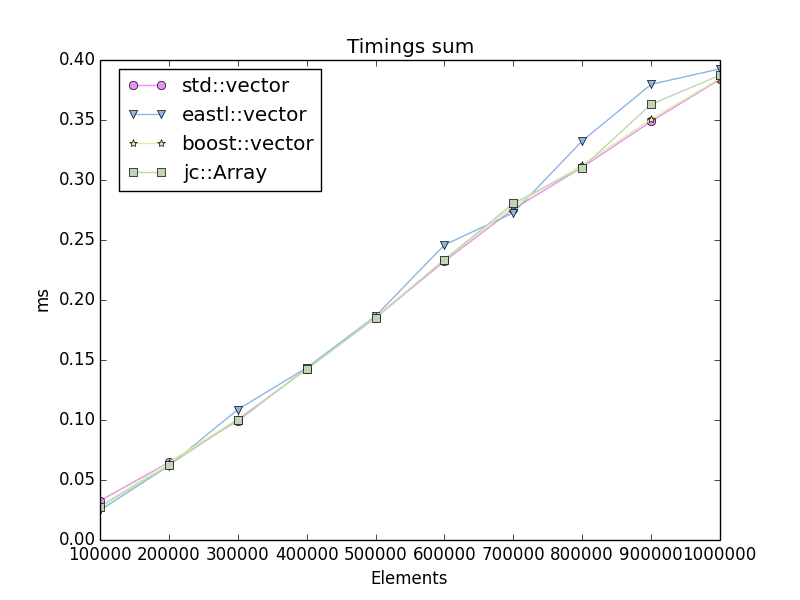
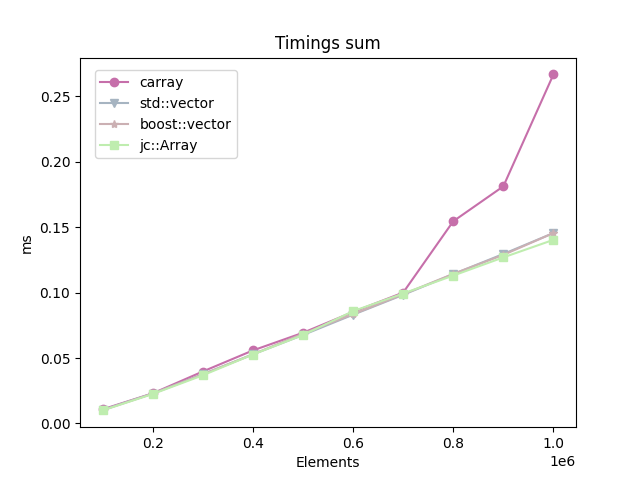
Updated benchmark scripts to python3

diff --git a/benchmarks/makereport.py b/benchmarks/makereport.py
@@ -26,7 +26,7 @@ def convert_time(t, unit):
 
 def parse_log(report, reportpath):
     counts = []
-    with open(reportpath, 'rb') as f:
+    with open(reportpath, 'rt') as f:
         n = -1
         iterations = -1
         for line in f:
@@ -70,8 +70,8 @@ def parse_log(report, reportpath):
 
 def collect_table_data(counts, report, tabledata):
 
-    for category, tests in report.iteritems():
-        for testname, results in tests.iteritems():
+    for category, tests in report.items():
+        for testname, results in tests.items():
             if testname in ['title', 'scale', 'unit']:
                 continue
             
@@ -84,7 +84,7 @@ def collect_table_data(counts, report, tabledata):
                 tabledata[category][testname]['counts'] = list()
             tabledata[category][testname]['counts'].extend(counts)
             
-            for name, values in results.iteritems():
+            for name, values in results.items():
                 if not name in tabledata[category][testname]:
                     tabledata[category][testname][name] = list()
                 if name in ['title', 'scale', 'unit']:
@@ -96,16 +96,16 @@ def collect_table_data(counts, report, tabledata):
 def make_table_report(data):
     usediff = False
 
-    for category, tests in data.iteritems():
+    for category, tests in data.items():
     
         totaldiff = 0.0
     
-        for testname, results in tests.iteritems():
+        for testname, results in tests.items():
             if testname in ['title', 'scale', 'formatter', 'unit']:
                 continue
             
             columns = list()
-            for name, values in results.iteritems():
+            for name, values in results.items():
                 if len(values) < len(results['counts']):
                     values.extend( (len(results['counts']) - len(values)) * [0.0])
                 columns.append( [name]+values )
@@ -114,11 +114,11 @@ def make_table_report(data):
             scale = tests['scale']
             title = tests['title']
             
-            matrix = zip(*columns)
+            matrix = list(zip(*columns))
             
             rows = [list(matrix[0])]
             for row in matrix[1:]:
-                rows.append( [str(row[0])] + map(formatter, map(lambda x: scale * x, row[1:]) ) )
+                rows.append( [str(row[0])] + list(map(formatter, map(lambda x: scale * x, row[1:]) )) )
             
             lengths = [0] * len(rows[0])
             for row in rows:
@@ -136,10 +136,10 @@ def make_table_report(data):
                 else:
                     headersunderline.append( '-' * (length + 2) )
                     
-            print "## " + title + " " + testname
-            print ""
-            print '|' + '|'.join(headers) + '|'
-            print '|' + '|'.join(headersunderline) + '|'
+            print("## " + title + " " + testname)
+            print("")
+            print('|' + '|'.join(headers) + '|')
+            print('|' + '|'.join(headersunderline) + '|')
 
             for row in rows[1:]:
                 values = []
@@ -148,23 +148,23 @@ def make_table_report(data):
                     value = v.ljust(length)
                     values.append( ' ' + value + ' ')
                 
-                print '|' + '|'.join(values) + '|',
+                print('|' + '|'.join(values) + '|',)
                 if not usediff:
-                    print ""
+                    print("")
                 
                 diff = 0.0
                 if usediff:
                     tokens = values[-1].split()
                     diff = float(tokens[0]) - float(values[-2].split()[0])
-                    print diff, tokens[1]
+                    print(diff, tokens[1])
                     
             totaldiff += diff
             
-            print ""
-            print ""
+            print("")
+            print("")
         
         if usediff:
-            print "Total diff:", totaldiff
+            print("Total diff:", totaldiff)
 
 
 if __name__ == '__main__':
@@ -213,4 +213,4 @@ if __name__ == '__main__':
     make_table_report(tabledata)
 
     timeend = time.time()
-    print "# Report made in %f seconds" % (timeend - timestart)
+    print("# Report made in %f seconds" % (timeend - timestart))

diff --git a/benchmarks/markdown.py b/benchmarks/markdown.py
@@ -19,7 +19,7 @@ def get_path_from_test_name(category, name):
 
 def get_log(path):
     lines = []
-    with open(path, 'rb') as f:
+    with open(path, 'rt') as f:
         for line in f.readlines():
             if line.startswith('# '):
                 continue
@@ -46,14 +46,14 @@ if __name__ == '__main__':
     category= sys.argv[2]
     log     = sys.argv[3]
 
-    print "# %s benchmarks" % title
-    print ""
-    print "Benchmarks run on a:", get_machine(), " ", get_cpu() 
-    print ""
+    print("# %s benchmarks" % title)
+    print("")
+    print("Benchmarks run on a:", get_machine(), " ", get_cpu() )
+    print("")
 
     lines = get_log(log)
 
-    print "# Images"
+    print("# Images")
 
     tests = get_tests(lines)
     i = 0
@@ -61,20 +61,20 @@ if __name__ == '__main__':
         if ('dmHashTable' in test):
             continue
         if (i % 2) == 0:
-            print '_\n<br/>'
+            print('_\n<br/>')
         i = i + 1
-        print '<img src="%s" alt="%s" width="350">' % (get_path_from_test_name(category, test), test)
+        print('<img src="%s" alt="%s" width="350">' % (get_path_from_test_name(category, test), test))
 
 
-    print ""
-    print "# Tables"
-    print ""
+    print("")
+    print("# Tables")
+    print("")
 
-    print "### %s" % log
-    print ""
+    print("### %s" % log)
+    print("")
     for line in lines:
         if 'dmHashTable' in line:
             continue
         tokens = line.split()
         tokens = map(sub, tokens)
-        print " ".join(tokens)
+        print(" ".join(tokens))

diff --git a/benchmarks/render.py b/benchmarks/render.py
@@ -19,7 +19,7 @@ def convert_time(t, unit):
     
 def parse_log(path):
     tests = []
-    with open(path, 'rb') as f:
+    with open(path, 'rt') as f:
         lines = f.readlines()
         
         headers = None
@@ -95,7 +95,7 @@ def render_matplotlib(test, outputdir):
     bars = []
     offset = 0
     markers='ov*sxd'
-    for i, (name, values) in enumerate(test['headers'].iteritems()):
+    for i, (name, values) in enumerate(test['headers'].items()):
         values = [x * scale for x in values]
         plt.plot(test['counts'], values, label=name, color=random_color(), marker=markers[i % len(markers)])
         offset += bar_width
@@ -111,7 +111,7 @@ def render_matplotlib(test, outputdir):
     plt.savefig(outpath)
     plt.close()
 
-    print "Wrote", outpath
+    print("Wrote", outpath)
             
 if __name__ == '__main__':
     tests = parse_log(sys.argv[1])

diff --git a/benchmarks/array/defines.h b/benchmarks/array/defines.h
@@ -63,7 +63,7 @@ typedef struct SValue
     typedef valuelarge_t* container_valuelarge_t;
 
 #elif defined(IMPL_JC)
-    #include <jc/array.h>
+    #include <jc/cpp/array.h>
     #define CONTAINERNAME "jc::Array"
     #define SET_CAPACITY(_CONTAINER, _SIZE) (_CONTAINER).SetCapacity(_SIZE)
     #define SET_SIZE(_CONTAINER, _SIZE)     (_CONTAINER).SetSize(_SIZE)

diff --git a/benchmarks/benchmarks_array.md b/benchmarks/benchmarks_array.md
@@ -1,6 +1,6 @@
 # jc::Array benchmarks
 
-Benchmarks run on a: MacBookPro14,2   Intel(R) Core(TM) i7-7567U CPU @ 3.50GHz
+Benchmarks run on a: b'MacBookPro18,3'   b'Apple M1 Pro'
 
 # Images
 _
@@ -18,65 +18,105 @@ _
 
 ## <sub>Timings</sub> <sub>get_random_small</sub>
 
-| <sub>counts</sub> | <sub>std::vector</sub> | <sub>eastl::vector</sub> | <sub>boost::vector</sub> | <sub>jc::Array</sub> | <sub>carray</sub> |
-|--------:|-------------|---------------|---------------|------------|------------|
-| <sub>100000</sub> | <sub>0.8264</sub> <sub>ms</sub> | <sub>0.8080</sub> <sub>ms</sub> | <sub>0.8081</sub> <sub>ms</sub> | <sub>0.8070</sub> <sub>ms</sub> | <sub>0.9156</sub> <sub>ms</sub> |
-| <sub>200000</sub> | <sub>1.7394</sub> <sub>ms</sub> | <sub>1.7150</sub> <sub>ms</sub> | <sub>1.6988</sub> <sub>ms</sub> | <sub>1.7306</sub> <sub>ms</sub> | <sub>1.8948</sub> <sub>ms</sub> |
-| <sub>300000</sub> | <sub>3.1953</sub> <sub>ms</sub> | <sub>2.8719</sub> <sub>ms</sub> | <sub>2.7273</sub> <sub>ms</sub> | <sub>2.7776</sub> <sub>ms</sub> | <sub>2.9445</sub> <sub>ms</sub> |
-| <sub>400000</sub> | <sub>4.0184</sub> <sub>ms</sub> | <sub>4.1398</sub> <sub>ms</sub> | <sub>3.8273</sub> <sub>ms</sub> | <sub>4.0719</sub> <sub>ms</sub> | <sub>4.2344</sub> <sub>ms</sub> |
-| <sub>500000</sub> | <sub>5.6850</sub> <sub>ms</sub> | <sub>5.8138</sub> <sub>ms</sub> | <sub>5.6511</sub> <sub>ms</sub> | <sub>5.9827</sub> <sub>ms</sub> | <sub>6.4052</sub> <sub>ms</sub> |
-| <sub>600000</sub> | <sub>8.7354</sub> <sub>ms</sub> | <sub>9.0637</sub> <sub>ms</sub> | <sub>8.4654</sub> <sub>ms</sub> | <sub>9.2994</sub> <sub>ms</sub> | <sub>9.2293</sub> <sub>ms</sub> |
-| <sub>700000</sub> | <sub>10.9367</sub> <sub>ms</sub> | <sub>12.5569</sub> <sub>ms</sub> | <sub>11.9072</sub> <sub>ms</sub> | <sub>12.1086</sub> <sub>ms</sub> | <sub>11.7493</sub> <sub>ms</sub> |
-| <sub>800000</sub> | <sub>13.8100</sub> <sub>ms</sub> | <sub>14.9648</sub> <sub>ms</sub> | <sub>14.9357</sub> <sub>ms</sub> | <sub>14.7252</sub> <sub>ms</sub> | <sub>14.2899</sub> <sub>ms</sub> |
-| <sub>900000</sub> | <sub>17.8260</sub> <sub>ms</sub> | <sub>17.9126</sub> <sub>ms</sub> | <sub>17.8071</sub> <sub>ms</sub> | <sub>17.6653</sub> <sub>ms</sub> | <sub>16.5598</sub> <sub>ms</sub> |
-| <sub>1000000</sub> | <sub>18.7424</sub> <sub>ms</sub> | <sub>20.6326</sub> <sub>ms</sub> | <sub>20.6248</sub> <sub>ms</sub> | <sub>20.3646</sub> <sub>ms</sub> | <sub>18.6638</sub> <sub>ms</sub> |
+| <sub>counts</sub> | <sub>carray</sub> | <sub>std::vector</sub> | <sub>boost::vector</sub> | <sub>jc::Array</sub> |
+|--------:|-----------|-------------|---------------|-----------|
+| <sub>100000</sub> | <sub>0.7136</sub> <sub>ms</sub> | <sub>0.7120</sub> <sub>ms</sub> | <sub>0.7120</sub> <sub>ms</sub> | <sub>0.7121</sub> <sub>ms</sub> |
+
+| <sub>200000</sub> | <sub>1.4414</sub> <sub>ms</sub> | <sub>1.4360</sub> <sub>ms</sub> | <sub>1.4263</sub> <sub>ms</sub> | <sub>1.4266</sub> <sub>ms</sub> |
+
+| <sub>300000</sub> | <sub>2.2113</sub> <sub>ms</sub> | <sub>2.2018</sub> <sub>ms</sub> | <sub>2.1843</sub> <sub>ms</sub> | <sub>2.2096</sub> <sub>ms</sub> |
+
+| <sub>400000</sub> | <sub>3.0264</sub> <sub>ms</sub> | <sub>2.9470</sub> <sub>ms</sub> | <sub>2.9482</sub> <sub>ms</sub> | <sub>2.9983</sub> <sub>ms</sub> |
+
+| <sub>500000</sub> | <sub>3.8195</sub> <sub>ms</sub> | <sub>3.7090</sub> <sub>ms</sub> | <sub>3.7188</sub> <sub>ms</sub> | <sub>3.7883</sub> <sub>ms</sub> |
+
+| <sub>600000</sub> | <sub>4.6223</sub> <sub>ms</sub> | <sub>4.4828</sub> <sub>ms</sub> | <sub>4.4828</sub> <sub>ms</sub> | <sub>4.5829</sub> <sub>ms</sub> |
+
+| <sub>700000</sub> | <sub>5.4262</sub> <sub>ms</sub> | <sub>5.2497</sub> <sub>ms</sub> | <sub>5.2559</sub> <sub>ms</sub> | <sub>5.3947</sub> <sub>ms</sub> |
+
+| <sub>800000</sub> | <sub>6.2504</sub> <sub>ms</sub> | <sub>6.0370</sub> <sub>ms</sub> | <sub>6.0279</sub> <sub>ms</sub> | <sub>6.1950</sub> <sub>ms</sub> |
+
+| <sub>900000</sub> | <sub>6.9080</sub> <sub>ms</sub> | <sub>6.8053</sub> <sub>ms</sub> | <sub>6.8157</sub> <sub>ms</sub> | <sub>6.9795</sub> <sub>ms</sub> |
+
+| <sub>1000000</sub> | <sub>7.8038</sub> <sub>ms</sub> | <sub>7.5842</sub> <sub>ms</sub> | <sub>7.5914</sub> <sub>ms</sub> | <sub>7.7868</sub> <sub>ms</sub> |
+
 
 
 ## <sub>Timings</sub> <sub>get_random_large</sub>
 
-| <sub>counts</sub> | <sub>std::vector</sub> | <sub>eastl::vector</sub> | <sub>boost::vector</sub> | <sub>jc::Array</sub> | <sub>carray</sub> |
-|--------:|-------------|---------------|---------------|------------|------------|
-| <sub>100000</sub> | <sub>2.8695</sub> <sub>ms</sub> | <sub>1.9055</sub> <sub>ms</sub> | <sub>2.0528</sub> <sub>ms</sub> | <sub>1.9727</sub> <sub>ms</sub> | <sub>2.4154</sub> <sub>ms</sub> |
-| <sub>200000</sub> | <sub>4.6309</sub> <sub>ms</sub> | <sub>4.4411</sub> <sub>ms</sub> | <sub>4.7103</sub> <sub>ms</sub> | <sub>4.5928</sub> <sub>ms</sub> | <sub>4.8088</sub> <sub>ms</sub> |
-| <sub>300000</sub> | <sub>7.8132</sub> <sub>ms</sub> | <sub>7.1768</sub> <sub>ms</sub> | <sub>7.8538</sub> <sub>ms</sub> | <sub>7.7742</sub> <sub>ms</sub> | <sub>7.7942</sub> <sub>ms</sub> |
-| <sub>400000</sub> | <sub>12.3929</sub> <sub>ms</sub> | <sub>12.4093</sub> <sub>ms</sub> | <sub>12.3329</sub> <sub>ms</sub> | <sub>12.5360</sub> <sub>ms</sub> | <sub>13.4506</sub> <sub>ms</sub> |
-| <sub>500000</sub> | <sub>17.7810</sub> <sub>ms</sub> | <sub>18.1099</sub> <sub>ms</sub> | <sub>17.3735</sub> <sub>ms</sub> | <sub>17.8010</sub> <sub>ms</sub> | <sub>16.7615</sub> <sub>ms</sub> |
-| <sub>600000</sub> | <sub>22.7329</sub> <sub>ms</sub> | <sub>23.0500</sub> <sub>ms</sub> | <sub>22.4068</sub> <sub>ms</sub> | <sub>22.7911</sub> <sub>ms</sub> | <sub>22.7921</sub> <sub>ms</sub> |
-| <sub>700000</sub> | <sub>24.2275</sub> <sub>ms</sub> | <sub>27.7321</sub> <sub>ms</sub> | <sub>27.0947</sub> <sub>ms</sub> | <sub>27.8435</sub> <sub>ms</sub> | <sub>27.0367</sub> <sub>ms</sub> |
-| <sub>800000</sub> | <sub>32.2001</sub> <sub>ms</sub> | <sub>32.2912</sub> <sub>ms</sub> | <sub>32.3264</sub> <sub>ms</sub> | <sub>31.5190</sub> <sub>ms</sub> | <sub>30.4063</sub> <sub>ms</sub> |
-| <sub>900000</sub> | <sub>35.7571</sub> <sub>ms</sub> | <sub>36.4017</sub> <sub>ms</sub> | <sub>36.3096</sub> <sub>ms</sub> | <sub>35.9511</sub> <sub>ms</sub> | <sub>36.0292</sub> <sub>ms</sub> |
-| <sub>1000000</sub> | <sub>36.8750</sub> <sub>ms</sub> | <sub>40.2151</sub> <sub>ms</sub> | <sub>40.4876</sub> <sub>ms</sub> | <sub>40.6841</sub> <sub>ms</sub> | <sub>38.4951</sub> <sub>ms</sub> |
+| <sub>counts</sub> | <sub>carray</sub> | <sub>std::vector</sub> | <sub>boost::vector</sub> | <sub>jc::Array</sub> |
+|--------:|------------|-------------|---------------|------------|
+| <sub>100000</sub> | <sub>0.7189</sub> <sub>ms</sub> | <sub>0.7155</sub> <sub>ms</sub> | <sub>0.7153</sub> <sub>ms</sub> | <sub>0.7154</sub> <sub>ms</sub> |
+
+| <sub>200000</sub> | <sub>1.8261</sub> <sub>ms</sub> | <sub>1.7670</sub> <sub>ms</sub> | <sub>2.0246</sub> <sub>ms</sub> | <sub>1.7935</sub> <sub>ms</sub> |
+
+| <sub>300000</sub> | <sub>3.3612</sub> <sub>ms</sub> | <sub>3.3522</sub> <sub>ms</sub> | <sub>3.3595</sub> <sub>ms</sub> | <sub>3.3588</sub> <sub>ms</sub> |
+
+| <sub>400000</sub> | <sub>4.8297</sub> <sub>ms</sub> | <sub>4.8163</sub> <sub>ms</sub> | <sub>4.8187</sub> <sub>ms</sub> | <sub>4.8242</sub> <sub>ms</sub> |
+
+| <sub>500000</sub> | <sub>6.2771</sub> <sub>ms</sub> | <sub>6.2727</sub> <sub>ms</sub> | <sub>6.2831</sub> <sub>ms</sub> | <sub>6.2735</sub> <sub>ms</sub> |
+
+| <sub>600000</sub> | <sub>7.7423</sub> <sub>ms</sub> | <sub>7.6815</sub> <sub>ms</sub> | <sub>7.6870</sub> <sub>ms</sub> | <sub>7.6786</sub> <sub>ms</sub> |
+
+| <sub>700000</sub> | <sub>9.1008</sub> <sub>ms</sub> | <sub>9.0972</sub> <sub>ms</sub> | <sub>9.1050</sub> <sub>ms</sub> | <sub>9.0908</sub> <sub>ms</sub> |
+
+| <sub>800000</sub> | <sub>10.4983</sub> <sub>ms</sub> | <sub>10.4903</sub> <sub>ms</sub> | <sub>10.4965</sub> <sub>ms</sub> | <sub>10.5044</sub> <sub>ms</sub> |
+
+| <sub>900000</sub> | <sub>13.3733</sub> <sub>ms</sub> | <sub>11.8640</sub> <sub>ms</sub> | <sub>11.8804</sub> <sub>ms</sub> | <sub>11.8810</sub> <sub>ms</sub> |
+
+| <sub>1000000</sub> | <sub>15.3142</sub> <sub>ms</sub> | <sub>13.2417</sub> <sub>ms</sub> | <sub>13.2668</sub> <sub>ms</sub> | <sub>13.2599</sub> <sub>ms</sub> |
+
 
 
 ## <sub>Timings</sub> <sub>sum</sub>
 
-| <sub>counts</sub> | <sub>std::vector</sub> | <sub>eastl::vector</sub> | <sub>boost::vector</sub> | <sub>jc::Array</sub> | <sub>carray</sub> |
-|--------:|-------------|---------------|---------------|-----------|-----------|
-| <sub>100000</sub> | <sub>0.0354</sub> <sub>ms</sub> | <sub>0.0260</sub> <sub>ms</sub> | <sub>0.0295</sub> <sub>ms</sub> | <sub>0.0270</sub> <sub>ms</sub> | <sub>0.0380</sub> <sub>ms</sub> |
-| <sub>200000</sub> | <sub>0.0632</sub> <sub>ms</sub> | <sub>0.0619</sub> <sub>ms</sub> | <sub>0.0630</sub> <sub>ms</sub> | <sub>0.0615</sub> <sub>ms</sub> | <sub>0.0755</sub> <sub>ms</sub> |
-| <sub>300000</sub> | <sub>0.1009</sub> <sub>ms</sub> | <sub>0.1003</sub> <sub>ms</sub> | <sub>0.1005</sub> <sub>ms</sub> | <sub>0.1016</sub> <sub>ms</sub> | <sub>0.1243</sub> <sub>ms</sub> |
-| <sub>400000</sub> | <sub>0.1418</sub> <sub>ms</sub> | <sub>0.1431</sub> <sub>ms</sub> | <sub>0.1459</sub> <sub>ms</sub> | <sub>0.1439</sub> <sub>ms</sub> | <sub>0.1750</sub> <sub>ms</sub> |
-| <sub>500000</sub> | <sub>0.1847</sub> <sub>ms</sub> | <sub>0.1895</sub> <sub>ms</sub> | <sub>0.1838</sub> <sub>ms</sub> | <sub>0.1847</sub> <sub>ms</sub> | <sub>0.2453</sub> <sub>ms</sub> |
-| <sub>600000</sub> | <sub>0.2327</sub> <sub>ms</sub> | <sub>0.2318</sub> <sub>ms</sub> | <sub>0.2320</sub> <sub>ms</sub> | <sub>0.2331</sub> <sub>ms</sub> | <sub>0.2864</sub> <sub>ms</sub> |
-| <sub>700000</sub> | <sub>0.3028</sub> <sub>ms</sub> | <sub>0.2751</sub> <sub>ms</sub> | <sub>0.2731</sub> <sub>ms</sub> | <sub>0.2757</sub> <sub>ms</sub> | <sub>0.3479</sub> <sub>ms</sub> |
-| <sub>800000</sub> | <sub>0.3164</sub> <sub>ms</sub> | <sub>0.3124</sub> <sub>ms</sub> | <sub>0.3092</sub> <sub>ms</sub> | <sub>0.3097</sub> <sub>ms</sub> | <sub>0.3748</sub> <sub>ms</sub> |
-| <sub>900000</sub> | <sub>0.3484</sub> <sub>ms</sub> | <sub>0.3535</sub> <sub>ms</sub> | <sub>0.3490</sub> <sub>ms</sub> | <sub>0.3512</sub> <sub>ms</sub> | <sub>0.4793</sub> <sub>ms</sub> |
-| <sub>1000000</sub> | <sub>0.3866</sub> <sub>ms</sub> | <sub>0.3863</sub> <sub>ms</sub> | <sub>0.3886</sub> <sub>ms</sub> | <sub>0.3884</sub> <sub>ms</sub> | <sub>0.5242</sub> <sub>ms</sub> |
+| <sub>counts</sub> | <sub>carray</sub> | <sub>std::vector</sub> | <sub>boost::vector</sub> | <sub>jc::Array</sub> |
+|--------:|-----------|-------------|---------------|-----------|
+| <sub>100000</sub> | <sub>0.0108</sub> <sub>ms</sub> | <sub>0.0104</sub> <sub>ms</sub> | <sub>0.0101</sub> <sub>ms</sub> | <sub>0.0100</sub> <sub>ms</sub> |
+
+| <sub>200000</sub> | <sub>0.0230</sub> <sub>ms</sub> | <sub>0.0229</sub> <sub>ms</sub> | <sub>0.0228</sub> <sub>ms</sub> | <sub>0.0225</sub> <sub>ms</sub> |
+
+| <sub>300000</sub> | <sub>0.0397</sub> <sub>ms</sub> | <sub>0.0376</sub> <sub>ms</sub> | <sub>0.0375</sub> <sub>ms</sub> | <sub>0.0368</sub> <sub>ms</sub> |
+
+| <sub>400000</sub> | <sub>0.0558</sub> <sub>ms</sub> | <sub>0.0528</sub> <sub>ms</sub> | <sub>0.0528</sub> <sub>ms</sub> | <sub>0.0527</sub> <sub>ms</sub> |
+
+| <sub>500000</sub> | <sub>0.0693</sub> <sub>ms</sub> | <sub>0.0676</sub> <sub>ms</sub> | <sub>0.0686</sub> <sub>ms</sub> | <sub>0.0676</sub> <sub>ms</sub> |
+
+| <sub>600000</sub> | <sub>0.0852</sub> <sub>ms</sub> | <sub>0.0831</sub> <sub>ms</sub> | <sub>0.0835</sub> <sub>ms</sub> | <sub>0.0858</sub> <sub>ms</sub> |
+
+| <sub>700000</sub> | <sub>0.1000</sub> <sub>ms</sub> | <sub>0.0983</sub> <sub>ms</sub> | <sub>0.0987</sub> <sub>ms</sub> | <sub>0.0993</sub> <sub>ms</sub> |
+
+| <sub>800000</sub> | <sub>0.1545</sub> <sub>ms</sub> | <sub>0.1141</sub> <sub>ms</sub> | <sub>0.1143</sub> <sub>ms</sub> | <sub>0.1130</sub> <sub>ms</sub> |
+
+| <sub>900000</sub> | <sub>0.1812</sub> <sub>ms</sub> | <sub>0.1295</sub> <sub>ms</sub> | <sub>0.1288</sub> <sub>ms</sub> | <sub>0.1269</sub> <sub>ms</sub> |
+
+| <sub>1000000</sub> | <sub>0.2667</sub> <sub>ms</sub> | <sub>0.1455</sub> <sub>ms</sub> | <sub>0.1455</sub> <sub>ms</sub> | <sub>0.1403</sub> <sub>ms</sub> |
+
 
 
 ## <sub>Timings</sub> <sub>push_back</sub>
 
-| <sub>counts</sub> | <sub>std::vector</sub> | <sub>eastl::vector</sub> | <sub>boost::vector</sub> | <sub>jc::Array</sub> | <sub>carray</sub> |
-|--------:|-------------|---------------|---------------|-----------|-----------|
-| <sub>100000</sub> | <sub>0.1538</sub> <sub>ms</sub> | <sub>0.0752</sub> <sub>ms</sub> | <sub>0.1444</sub> <sub>ms</sub> | <sub>0.0405</sub> <sub>ms</sub> | <sub>0.0342</sub> <sub>ms</sub> |
-| <sub>200000</sub> | <sub>0.2766</sub> <sub>ms</sub> | <sub>0.1671</sub> <sub>ms</sub> | <sub>0.2606</sub> <sub>ms</sub> | <sub>0.0877</sub> <sub>ms</sub> | <sub>0.1000</sub> <sub>ms</sub> |
-| <sub>300000</sub> | <sub>0.4150</sub> <sub>ms</sub> | <sub>0.2257</sub> <sub>ms</sub> | <sub>0.3908</sub> <sub>ms</sub> | <sub>0.1219</sub> <sub>ms</sub> | <sub>0.1267</sub> <sub>ms</sub> |
-| <sub>400000</sub> | <sub>0.5536</sub> <sub>ms</sub> | <sub>0.3010</sub> <sub>ms</sub> | <sub>0.5652</sub> <sub>ms</sub> | <sub>0.1645</sub> <sub>ms</sub> | <sub>0.1822</sub> <sub>ms</sub> |
-| <sub>500000</sub> | <sub>0.6933</sub> <sub>ms</sub> | <sub>0.3772</sub> <sub>ms</sub> | <sub>0.6537</sub> <sub>ms</sub> | <sub>0.2218</sub> <sub>ms</sub> | <sub>0.2511</sub> <sub>ms</sub> |
-| <sub>600000</sub> | <sub>0.8327</sub> <sub>ms</sub> | <sub>0.5024</sub> <sub>ms</sub> | <sub>0.8588</sub> <sub>ms</sub> | <sub>0.2611</sub> <sub>ms</sub> | <sub>0.3052</sub> <sub>ms</sub> |
-| <sub>700000</sub> | <sub>0.9690</sub> <sub>ms</sub> | <sub>0.5647</sub> <sub>ms</sub> | <sub>0.9205</sub> <sub>ms</sub> | <sub>0.3401</sub> <sub>ms</sub> | <sub>0.3498</sub> <sub>ms</sub> |
-| <sub>800000</sub> | <sub>1.2133</sub> <sub>ms</sub> | <sub>0.6733</sub> <sub>ms</sub> | <sub>1.0508</sub> <sub>ms</sub> | <sub>0.4059</sub> <sub>ms</sub> | <sub>0.4152</sub> <sub>ms</sub> |
-| <sub>900000</sub> | <sub>1.2480</sub> <sub>ms</sub> | <sub>0.7064</sub> <sub>ms</sub> | <sub>1.1754</sub> <sub>ms</sub> | <sub>0.4026</sub> <sub>ms</sub> | <sub>0.4551</sub> <sub>ms</sub> |
-| <sub>1000000</sub> | <sub>1.3864</sub> <sub>ms</sub> | <sub>0.7664</sub> <sub>ms</sub> | <sub>1.3061</sub> <sub>ms</sub> | <sub>0.4482</sub> <sub>ms</sub> | <sub>0.5036</sub> <sub>ms</sub> |
+| <sub>counts</sub> | <sub>carray</sub> | <sub>std::vector</sub> | <sub>boost::vector</sub> | <sub>jc::Array</sub> |
+|--------:|-----------|-------------|---------------|-----------|
+| <sub>100000</sub> | <sub>0.0635</sub> <sub>ms</sub> | <sub>0.0506</sub> <sub>ms</sub> | <sub>0.2146</sub> <sub>ms</sub> | <sub>0.0378</sub> <sub>ms</sub> |
+
+| <sub>200000</sub> | <sub>0.1305</sub> <sub>ms</sub> | <sub>0.1007</sub> <sub>ms</sub> | <sub>0.4294</sub> <sub>ms</sub> | <sub>0.0757</sub> <sub>ms</sub> |
+
+| <sub>300000</sub> | <sub>0.2014</sub> <sub>ms</sub> | <sub>0.1511</sub> <sub>ms</sub> | <sub>0.6551</sub> <sub>ms</sub> | <sub>0.1135</sub> <sub>ms</sub> |
+
+| <sub>400000</sub> | <sub>0.0991</sub> <sub>ms</sub> | <sub>0.2017</sub> <sub>ms</sub> | <sub>0.8755</sub> <sub>ms</sub> | <sub>0.1506</sub> <sub>ms</sub> |
+
+| <sub>500000</sub> | <sub>0.2848</sub> <sub>ms</sub> | <sub>0.2520</sub> <sub>ms</sub> | <sub>1.0953</sub> <sub>ms</sub> | <sub>0.1885</sub> <sub>ms</sub> |
+
+| <sub>600000</sub> | <sub>0.3390</sub> <sub>ms</sub> | <sub>0.3025</sub> <sub>ms</sub> | <sub>1.3008</sub> <sub>ms</sub> | <sub>0.2253</sub> <sub>ms</sub> |
+
+| <sub>700000</sub> | <sub>0.1089</sub> <sub>ms</sub> | <sub>0.3529</sub> <sub>ms</sub> | <sub>1.5326</sub> <sub>ms</sub> | <sub>0.2647</sub> <sub>ms</sub> |
+
+| <sub>800000</sub> | <sub>0.4559</sub> <sub>ms</sub> | <sub>0.4036</sub> <sub>ms</sub> | <sub>1.7343</sub> <sub>ms</sub> | <sub>0.3016</sub> <sub>ms</sub> |
+
+| <sub>900000</sub> | <sub>0.5053</sub> <sub>ms</sub> | <sub>0.4539</sub> <sub>ms</sub> | <sub>1.9627</sub> <sub>ms</sub> | <sub>0.3415</sub> <sub>ms</sub> |
+
+| <sub>1000000</sub> | <sub>0.5665</sub> <sub>ms</sub> | <sub>0.5072</sub> <sub>ms</sub> | <sub>2.1670</sub> <sub>ms</sub> | <sub>0.3783</sub> <sub>ms</sub> |
+
 
 

diff --git a/benchmarks/README.md b/benchmarks/README.md
@@ -1,9 +1,10 @@
 # How to generate the benchmarks
 
+    $ cd benchmatks
     $ ./compile_clang.sh array
     $ ./benchmark.sh array      # Outputs ./build/benchmarks/array.txt
     $ python makereport.py ./build/benchmarks/array.txt > report.txt
-    $ python render.py report.txt ./images/array
+    $ python render.py report.txt ../images/array
     $ python markdown.py jc::Array array report.txt > benchmarks_array.md
 
 # Benchmarks
